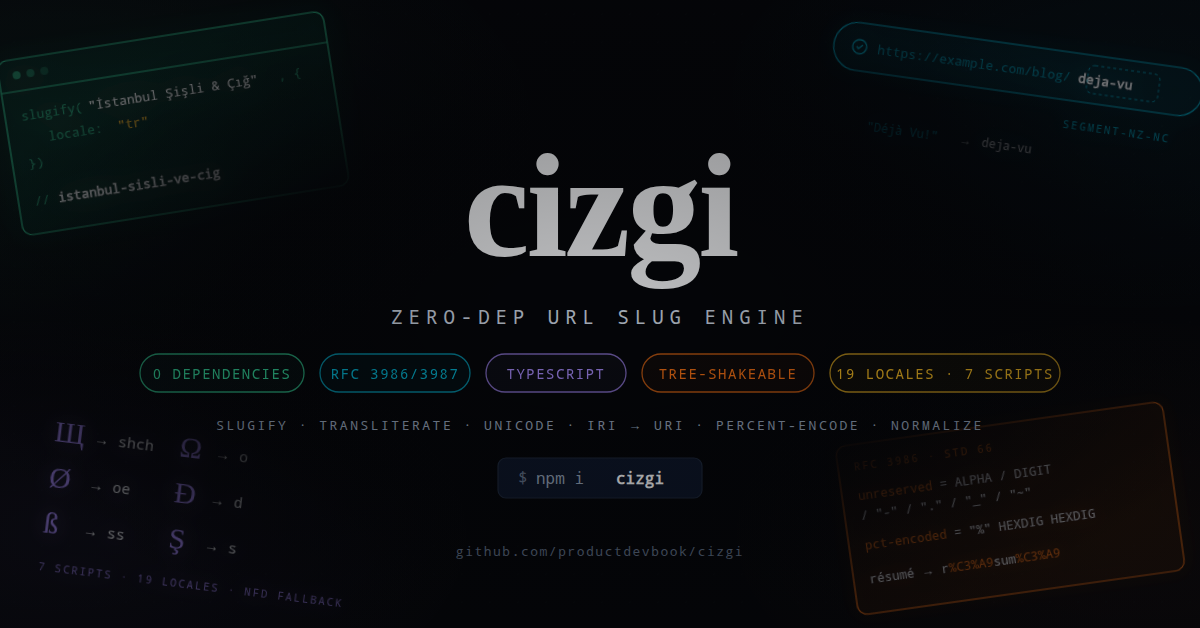
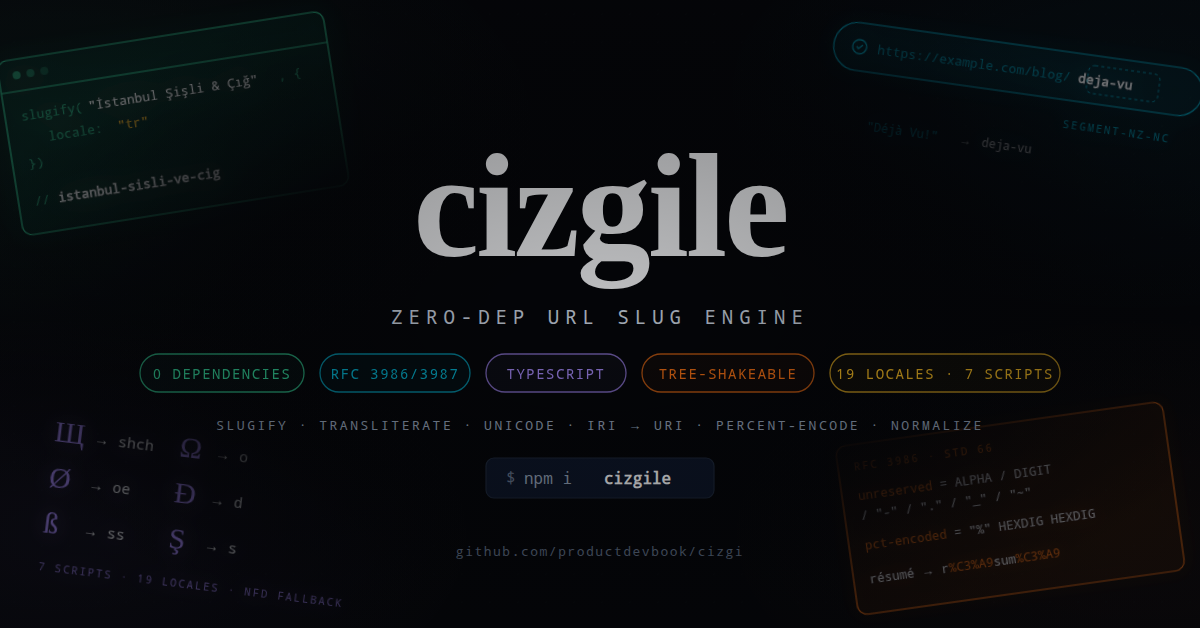
chore: rename package to cizgile
Claude-Session: https://claude.ai/code/session_013Bg9ZpopD31bgxvNcGNd8c

Changed region(s): [[0.3392, 0.242, 0.6783, 0.4841], [0.4317, 0.7564, 0.555, 0.7866]]

diff --git a/src/slug/options.ts b/src/slug/options.ts
@@ -57,7 +57,7 @@ function resolveLocale(locale: LatinLocaleId | Locale | undefined): Locale | und
     const found = latinLocales[locale] as Locale | undefined
     if (found === undefined) {
       throw new TypeError(
-        `slugify: unknown locale "${locale}"; pass a Locale object exported by cizgi/transliterate`,
+        `slugify: unknown locale "${locale}"; pass a Locale object exported by cizgile/transliterate`,
       )
     }
     return found

diff --git a/test/locales.test.ts b/test/locales.test.ts
@@ -72,7 +72,7 @@ describe("other Latin locales", () => {
   })
 })
 
-describe("Cyrillic locales (Locale objects from cizgi/transliterate)", () => {
+describe("Cyrillic locales (Locale objects from cizgile/transliterate)", () => {
   it("Ukrainian", () => {
     expect(slugify("Київ Ґудзик", { locale: uk })).toBe("kyiv-gudzyk")
     expect(slugify("Щастя & Здоров'я", { locale: uk })).toBe("shchastia-ta-zdorovia")

diff --git a/README.md b/README.md
@@ -1,27 +1,27 @@
 <p align="center">
   <br>
-  <img src=".github/assets/cover.svg" alt="cizgi — Zero-dependency URL slug engine" width="100%">
+  <img src=".github/assets/cover.svg" alt="cizgile — Zero-dependency URL slug engine" width="100%">
   <br><br>
-  <b style="font-size: 2em;">cizgi</b>
+  <b style="font-size: 2em;">cizgile</b>
   <br><br>
   Zero-dependency URL slug engine.
   <br>
   RFC 3986/3987 slugs, transliteration for seven scripts, Unicode slugs, IRI ↔ URI, percent-encoding, dot-segment removal, reference resolution. Pure TypeScript, works everywhere.
   <br><br>
-  <a href="https://npmjs.com/package/cizgi"><img src="https://img.shields.io/npm/v/cizgi?style=flat&colorA=18181B&colorB=34d399" alt="npm version"></a>
-  <a href="https://npmjs.com/package/cizgi"><img src="https://img.shields.io/npm/dm/cizgi?style=flat&colorA=18181B&colorB=34d399" alt="npm downloads"></a>
-  <a href="https://bundlephobia.com/result?p=cizgi"><img src="https://img.shields.io/bundlephobia/minzip/cizgi?style=flat&colorA=18181B&colorB=34d399" alt="bundle size"></a>
+  <a href="https://npmjs.com/package/cizgile"><img src="https://img.shields.io/npm/v/cizgile?style=flat&colorA=18181B&colorB=34d399" alt="npm version"></a>
+  <a href="https://npmjs.com/package/cizgile"><img src="https://img.shields.io/npm/dm/cizgile?style=flat&colorA=18181B&colorB=34d399" alt="npm downloads"></a>
+  <a href="https://bundlephobia.com/result?p=cizgile"><img src="https://img.shields.io/bundlephobia/minzip/cizgile?style=flat&colorA=18181B&colorB=34d399" alt="bundle size"></a>
   <a href="https://github.com/productdevbook/cizgi/blob/main/LICENSE"><img src="https://img.shields.io/github/license/productdevbook/cizgi?style=flat&colorA=18181B&colorB=34d399" alt="license"></a>
 </p>
 
 ## Quick Start
 
 ```sh
-npm install cizgi
+npm install cizgile
 ```
 
 ```ts
-import { slugify } from "cizgi"
+import { slugify } from "cizgile"
 
 slugify("Hello, World!") // "hello-world"
 slugify("İstanbul Şişli & Çığ", { locale: "tr" }) // "istanbul-sisli-ve-cig"
@@ -31,33 +31,33 @@ slugify("你好 World", { unicode: true }) // "你好-world"
 
 Three entry points, each importable on its own:
 
-| entry                 | what it holds                                                                                                 |
-| --------------------- | ------------------------------------------------------------------------------------------------------------- |
-| `cizgi`               | `slugify`, `isSlug`, `truncateSlug`, `createSlugger`, `decamelize`                                            |
-| `cizgi/uri`           | RFC 3986 character classes, percent-encoding, `removeDotSegments`, `resolveUri`, `normalizeUri`, RFC 3987 IRI |
-| `cizgi/transliterate` | script tables, locales, `transliterate`, `defineLocale`                                                       |
+| entry                   | what it holds                                                                                                 |
+| ----------------------- | ------------------------------------------------------------------------------------------------------------- |
+| `cizgile`               | `slugify`, `isSlug`, `truncateSlug`, `createSlugger`, `decamelize`                                            |
+| `cizgile/uri`           | RFC 3986 character classes, percent-encoding, `removeDotSegments`, `resolveUri`, `normalizeUri`, RFC 3987 IRI |
+| `cizgile/transliterate` | script tables, locales, `transliterate`, `defineLocale`                                                       |
 
-`import { slugify } from "cizgi"` bundles the Latin table and symbols only; Cyrillic, Greek, Arabic,
+`import { slugify } from "cizgile"` bundles the Latin table and symbols only; Cyrillic, Greek, Arabic,
 Armenian, Georgian and Dhivehi are opt-in and tree-shake away when unused.
 
 ## `slugify(input, options?)`
 
 Every option, with its default:
 
-| option                      | default   | meaning                                                                                                                                         |
-| --------------------------- | --------- | ----------------------------------------------------------------------------------------------------------------------------------------------- |
-| `separator`                 | `"-"`     | Any string of non-alphanumerics; `""` joins words. `/`, `?`, `#`, `%` are rejected (they would break a path segment).                           |
-| `lowercase`                 | `true`    | `false` keeps case (`"Donald E. Knuth"` → `Donald-E-Knuth`).                                                                                    |
-| `unicode`                   | `false`   | `true` keeps every letter, digit and combining mark (Django `allow_unicode`), output in NFKC.                                                   |
-| `locale`                    | —         | `"az" "da" "de" "es" "fi" "fr" "hu" "it" "nb" "nl" "pt" "sv" "tr" "vi"`, or a `Locale` object (Cyrillic locales live in `cizgi/transliterate`). |
-| `transliterate`             | `true`    | `false` skips the tables (diacritics still fold); an array of tables is consulted before the Latin defaults.                                    |
-| `decamelize`                | `false`   | `fooBar` → `foo-bar`, `HTMLParser` → `html-parser`, `APIs` stays.                                                                               |
-| `replacements`              | `[]`      | Literal `[from, to]` pairs applied first; surrounding spaces become separators (`["&", " and "]`).                                              |
-| `remove`                    | `/['’]/g` | Global regex stripped after transliteration (`don't` → `dont`); `false` to keep.                                                                |
-| `preserveCharacters`        | `[]`      | Extra single characters allowed in the output (`["."]` keeps `v1.2.3`). May not contain the separator.                                          |
-| `preserveLeadingUnderscore` | `false`   | `_foo bar` → `_foo-bar`.                                                                                                                        |
-| `preserveTrailingSeparator` | `false`   | `foo bar-` → `foo-bar-` (useful while typing into an input).                                                                                    |
-| `maxLength`                 | —         | Cuts at the last separator inside the limit; never mid-word unless there is no separator, never inside a surrogate pair or before a mark.       |
+| option                      | default   | meaning                                                                                                                                           |
+| --------------------------- | --------- | ------------------------------------------------------------------------------------------------------------------------------------------------- |
+| `separator`                 | `"-"`     | Any string of non-alphanumerics; `""` joins words. `/`, `?`, `#`, `%` are rejected (they would break a path segment).                             |
+| `lowercase`                 | `true`    | `false` keeps case (`"Donald E. Knuth"` → `Donald-E-Knuth`).                                                                                      |
+| `unicode`                   | `false`   | `true` keeps every letter, digit and combining mark (Django `allow_unicode`), output in NFKC.                                                     |
+| `locale`                    | —         | `"az" "da" "de" "es" "fi" "fr" "hu" "it" "nb" "nl" "pt" "sv" "tr" "vi"`, or a `Locale` object (Cyrillic locales live in `cizgile/transliterate`). |
+| `transliterate`             | `true`    | `false` skips the tables (diacritics still fold); an array of tables is consulted before the Latin defaults.                                      |
+| `decamelize`                | `false`   | `fooBar` → `foo-bar`, `HTMLParser` → `html-parser`, `APIs` stays.                                                                                 |
+| `replacements`              | `[]`      | Literal `[from, to]` pairs applied first; surrounding spaces become separators (`["&", " and "]`).                                                |
+| `remove`                    | `/['’]/g` | Global regex stripped after transliteration (`don't` → `dont`); `false` to keep.                                                                  |
+| `preserveCharacters`        | `[]`      | Extra single characters allowed in the output (`["."]` keeps `v1.2.3`). May not contain the separator.                                            |
+| `preserveLeadingUnderscore` | `false`   | `_foo bar` → `_foo-bar`.                                                                                                                          |
+| `preserveTrailingSeparator` | `false`   | `foo bar-` → `foo-bar-` (useful while typing into an input).                                                                                      |
+| `maxLength`                 | —         | Cuts at the last separator inside the limit; never mid-word unless there is no separator, never inside a surrogate pair or before a mark.         |
 
 The pipeline, in order — the order is what makes the edge cases come out right:
 
@@ -77,12 +77,12 @@ valid RFC 3986 `segment-nz-nc`, so it needs no percent-encoding. `slugify` is id
 
 ### Locales
 
-Locale ids resolve to objects from `cizgi/transliterate`; you can pass those objects directly or
+Locale ids resolve to objects from `cizgile/transliterate`; you can pass those objects directly or
 build your own without mutating anything global:
 
 ```ts
-import { slugify } from "cizgi"
-import { de, defineLocale, uk } from "cizgi/transliterate"
+import { slugify } from "cizgile"
+import { de, defineLocale, uk } from "cizgile/transliterate"
 
 slugify("Київ Ґудзик", { locale: uk }) // "kyiv-gudzyk"
 slugify("Fisch & Chips", { locale: de }) // "fisch-und-chips"
@@ -95,7 +95,7 @@ slugify("x & y", { locale: { id: "mine", table: { "&": " plus " } } }) // "x-plu
 Non-Latin scripts without a locale:
 
 ```ts
-import { cyrillic, greek } from "cizgi/transliterate"
+import { cyrillic, greek } from "cizgile/transliterate"
 
 slugify("Привет мир", { transliterate: [cyrillic] }) // "privet-mir"
 slugify("Καλημέρα κόσμε", { transliterate: [greek] }) // "kalimera-kosme"
@@ -105,8 +105,8 @@ slugify("Привет мир") // "" — nothing to keep in ASCII mode
 ### Unicode slugs
 
 ```ts
-import { slugify } from "cizgi"
-import { iriToUri, uriToIri } from "cizgi/uri"
+import { slugify } from "cizgile"
+import { iriToUri, uriToIri } from "cizgile/uri"
 
 const slug = slugify("Ünïcödé ﬁnal ①", { unicode: true }) // "ünïcödé-final-1"
 const uri = iriToUri(slug) // "%C3%BCn%C3%AFc%C3%B6d%C3%A9-final-1"
@@ -135,7 +135,7 @@ form arrives on its own (`foo-2` after `foo-2` becomes `foo-2-2`), results stay 
 
 The truncation step on its own: `truncateSlug("hello-world", 8)` → `hello`.
 
-## `cizgi/uri`
+## `cizgile/uri`
 
 Everything here follows RFC 3986 to the letter and is checked against its test vectors (§5.4 normal
 and abnormal references, §6.2 normalisation) and, where both apply, against the WHATWG `URL` parser.
@@ -157,7 +157,7 @@ and abnormal references, §6.2 normalisation) and, where both apply, against the
 | `uriToIri(uri)`                                                                                | 3987 §3.2         | decodes only well-formed UTF-8 `ucschar`; `iprivate`, ASCII and bidi controls stay encoded                                                                                                                              |
 
 ```ts
-import { normalizeUri, percentEncode, removeDotSegments, resolveUri } from "cizgi/uri"
+import { normalizeUri, percentEncode, removeDotSegments, resolveUri } from "cizgile/uri"
 
 removeDotSegments("/a/b/c/./../../g") // "/a/g"
 resolveUri("http://a/b/c/d;p?q", "../../g") // "http://a/g"
@@ -168,10 +168,10 @@ percentEncode("À ア", "pchar") // "%C3%80%20%E3%82%A2"
 Not implemented on purpose: RFC 6874 IPv6 zone identifiers (`[fe80::a%25en1]`) — RFC 9844 reverted
 that change to the URI syntax.
 
-## `cizgi/transliterate`
+## `cizgile/transliterate`
 
 ```ts
-import { transliterate, cyrillic, greek, latin, symbols, locales } from "cizgi/transliterate"
+import { transliterate, cyrillic, greek, latin, symbols, locales } from "cizgile/transliterate"
 
 transliterate("Straße Ærø") // "Strasse AEro"
 transliterate("Привет", { tables: [cyrillic] }) // "Privet"
@@ -191,7 +191,7 @@ Where a script spells a letter differently at the start of a word (Armenian `ե`
 
 ## How it compares
 
-| input                       | cizgi                | Django `slugify` | Rails `parameterize` | `@sindresorhus/slugify` |
+| input                       | cizgile              | Django `slugify` | Rails `parameterize` | `@sindresorhus/slugify` |
 | --------------------------- | -------------------- | ---------------- | -------------------- | ----------------------- |
 | `" Joel is a slug "`        | `joel-is-a-slug`     | same             | same                 | same                    |
 | `"jack & jill"`             | `jack-and-jill`      | `jack-jill`      | `jack-jill`          | `jack-and-jill`         |
@@ -226,12 +226,12 @@ Node ≥ 20.19 or any runtime with `String.prototype.normalize` and Unicode prop
 
 ## Credits
 
-cizgi stands on the shoulders of people who solved pieces of this problem first:
+cizgile stands on the shoulders of people who solved pieces of this problem first:
 
 - [simov/slugify](https://github.com/simov/slugify) — the charmap + per-locale override idea, and most of the Cyrillic, Greek, Arabic and symbol values.
 - [sindresorhus/slugify](https://github.com/sindresorhus/slugify) and [sindresorhus/transliterate](https://github.com/sindresorhus/transliterate) — `decamelize`, `customReplacements`, the counter slugger, and the Armenian, Georgian, Vietnamese and Dhivehi tables.
 - [Django](https://github.com/django/django) `django.utils.text.slugify` and [Rails](https://github.com/rails/rails) `ActiveSupport::Inflector#parameterize` — the reference behaviours the parity tests are written against.
-- [WHATWG URL Standard](https://url.spec.whatwg.org/) — the percent-encode sets and the parser every `cizgi/uri` result is cross-checked with.
+- [WHATWG URL Standard](https://url.spec.whatwg.org/) — the percent-encode sets and the parser every `cizgile/uri` result is cross-checked with.
 - [RFC 3986](https://datatracker.ietf.org/doc/html/rfc3986) by Berners-Lee, Fielding and Masinter, and [RFC 3987](https://datatracker.ietf.org/doc/html/rfc3987) by Duerst and Suignard — the specifications this library exists to implement faithfully.
 - [Rolldown](https://rolldown.rs), [Oxc](https://oxc.rs), [Vitest](https://vitest.dev), [Bun](https://bun.sh) and [TypeScript](https://www.typescriptlang.org) — the toolchain.
 
